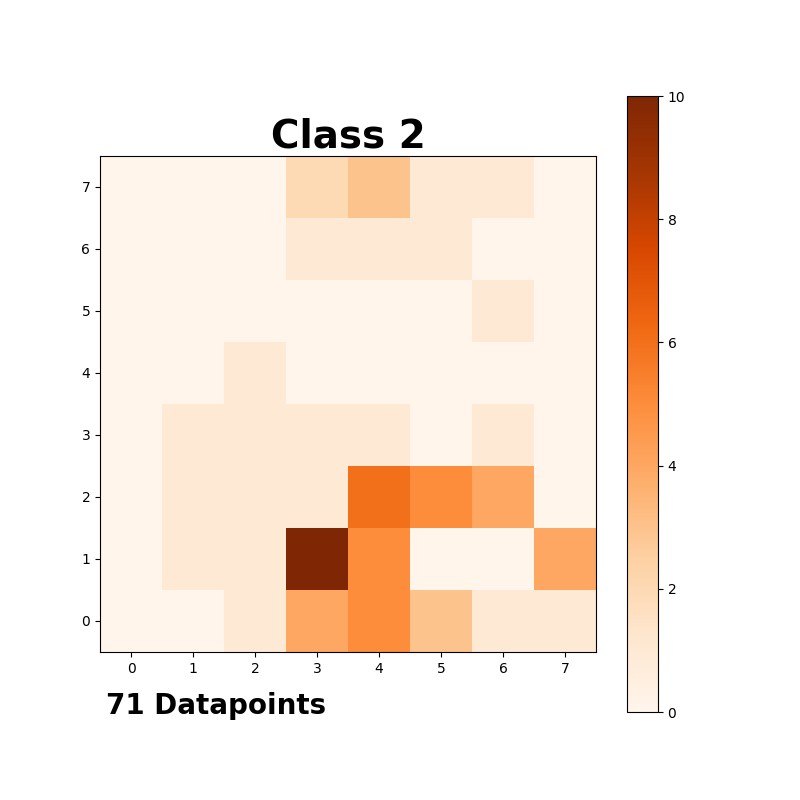
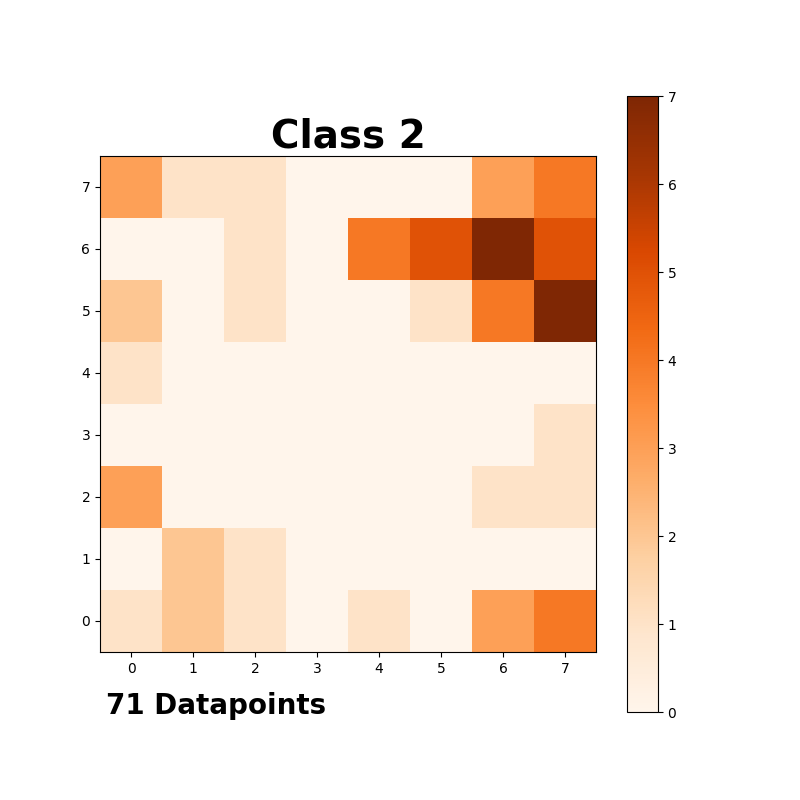
no message

diff --git a/main.py b/main.py
@@ -30,7 +30,7 @@ if __name__ == "__main__":
     print('CLASS_COUNT:%d'%CLASS_COUNT)
 
     som = SOM(8, 8)  # initialize the SOM
-    som.fit(X, 10000, save_e=True, interval=100)  # fit the SOM for 10000 epochs, save the error every 100 steps
+    som.fit(X, 25000, save_e=True, interval=100)  # fit the SOM for 10000 epochs, save the error every 100 steps
     som.plot_error_history(filename='images/som_error.png')  # plot the training error history
 
     # now visualize the learned representation with the class labels
